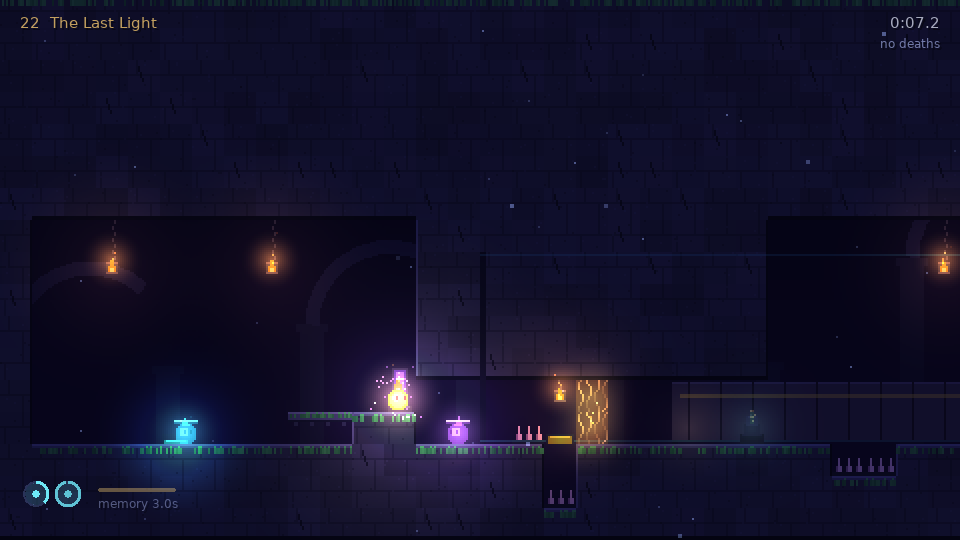
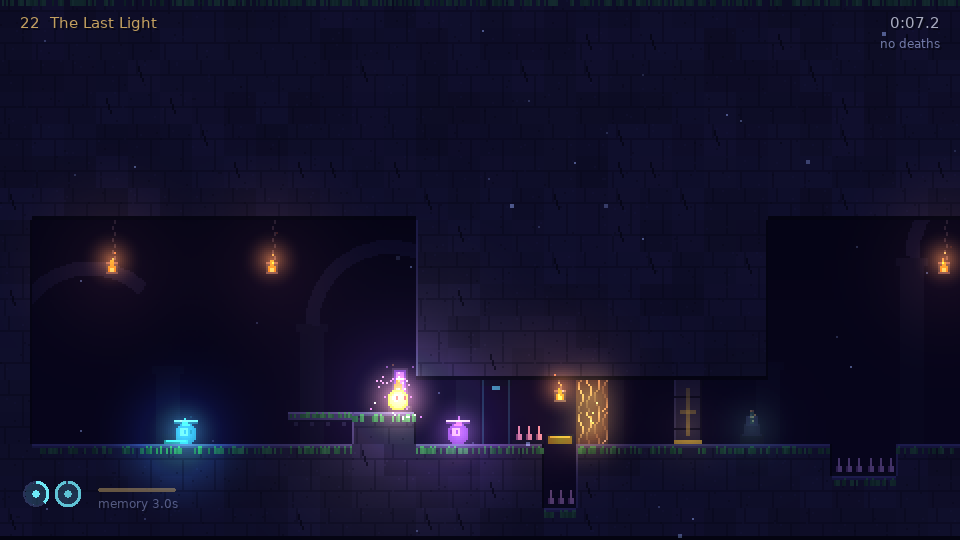
Reshoot the act IV and V blog images at the door fix
The act IV, act V and five-act level select rows in devblog/tools/shots.sh
now render from df9c112, which draws each separate door piece where it is.
Six images changed. The rest of those rows came out byte-identical.

Post 12 drops the door bug section and its image, the captions in posts
10 and 11 no longer point at the bug, and the devblog README no longer
lists door shots as an exception to deterministic screenshots.

diff --git a/devblog/content/posts/12-whats-next.md b/devblog/content/posts/12-whats-next.md
@@ -1,28 +1,20 @@
 ---
 title: "Next: playtests and cleanup"
-description: "Acts IV and V need people to play them, a few weak spots and a door-drawing bug are known, and the code shows where the cleanup should go."
+description: "Acts IV and V need people to play them, a few weak spots are known, and the code shows where the cleanup should go."
 part: 12
 weight: 12
 date: 2026-10-18
-commits: ["37c1380"]
+commits: ["37c1380", "df9c112"]
 cover: "images/11-act-five/select-five-acts.png"
 ---
 
-Echoes now has 22 levels in five acts, waystones in every long level, menus, saved progress and controller support. Five tools rerun its claims: `--selftest` with 369 checks, `--flow` with 37, `--slack`, `--cheese`, and `--bench`. Here's what's left.
+Echoes now has 22 levels in five acts, waystones in every long level, menus, saved progress and controller support. Five tools rerun its claims: `--selftest` with 369 checks, `--flow` with 38, `--slack`, `--cheese`, and `--bench`. Here's what's left.
 
-{{< figure src="images/11-act-five/select-five-acts.png" caption="Level select at `37c1380`. The records are seeded test data." >}}
+{{< figure src="images/11-act-five/select-five-acts.png" caption="Level select at `df9c112`. The records are seeded test data." >}}
 
 ## Put acts IV and V in front of people
 
 Every room in acts IV and V passes its solve, its naives, `--slack` and `--cheese`. None of those tools can say whether a person sees the insight from the waystone, or reads the hint and gets it. The last step in the doc's checklist for a new level is one no tool runs. Play it with a pad, from the title, through every waystone, dying once per room on purpose. The real test is someone playing all ten levels cold while someone else watches where they get stuck.
-
-## Draw each door where it is
-
-Taking the screenshots for [part 10]({{< relref "10-act-four" >}}) and [part 11]({{< relref "11-act-five" >}}) turned up a drawing bug. `drawDoor` in `game/gfx/render.lua` draws one slab per door letter, over the bounding box of every cell with that letter. That worked while each letter was one door. Seven levels now use a letter in two or more places, levels 11, 13 and 18 to 22. Let Go's door A is in six. On those levels the slab spans everything between the pieces and covers the floors under it. A door that stands upright is drawn only in the column of its first piece, so the other pieces don't show at all.
-
-{{< figure src="images/12-next/door-slabs.png" caption="Three Steps Behind at `37c1380`, frame 760. The striped panels with magenta and yellow edges are the slabs for hatches B and C, each drawn from one hatch to its twin far away. The corridors and floors under them are hidden." >}}
-
-Collision reads the cells, not the slab, so the levels play as tested. But a person playtesting them sees doors where there are none and floors that aren't drawn, so the fix comes before the playtests. Each connected group of cells needs its own slab. The overlapping slabs also make this shot vary between runs. In four renders of this frame, one differed from the other three in 7,348 pixels.
 
 ## Close the weak spots the doc names
 
@@ -43,7 +35,7 @@ The plan is one `TILES` entry per tile that also names its character, with `LEGE
 
 ## Split the two largest files
 
-`game/screens/scenes.lua` is now 824 lines and `game/gfx/render.lua` is 812. Both already show where they would split.
+`game/screens/scenes.lua` is now 824 lines and `game/gfx/render.lua` is 844. Both already show where they would split.
 
 `scenes.lua` opens with code every scene shares: the camera that follows the player, the reaction to world events, and the ambient title hall behind the menus. After that come seven scenes, one table each: title, playing, pause, level select, settings, level clear, and ending. One file per scene, with the shared code in its own module, would keep each file to one screen.
 

diff --git a/devblog/content/posts/11-act-five.md b/devblog/content/posts/11-act-five.md
@@ -48,7 +48,7 @@ Three ideas were probed for the empty slot before one was built:
 
 The idea behind Let Go is that sometimes you want a ghost gone. Door A in each room is two things at once. It's a one-tile gate standing on crumble over spikes, and past one more crumble tile, a floor five tiles long over more spikes. While a ghost holds plate a, the gate is open and so is the floor. To cross, you need the gate open as you step into it and the floor shut after. You stand in the doorway, where your own body keeps the gate open, and cast until the third ghost takes the one on a with it. The stone under the doorway cracks, so you can't wait there for the ghost to fade instead.
 
-{{< figure src="images/11-act-five/let-go-doorway.png" caption="Let Go, frame 360. Two casts from inside the doorway, at frames 353 and 356, made a third ghost, and the ghost on plate a went with it. Door A is shut, so the five-tile floor ahead is solid, though this frame doesn't draw it. That's the bug in part 12." >}}
+{{< figure src="images/11-act-five/let-go-doorway.png" caption="Let Go, frame 360. Two casts from inside the doorway, at frames 353 and 356, made a third ghost, and the ghost on plate a went with it. Door A has just shut, so the five-tile floor ahead is solid again. Its pieces are still sliding back into place." >}}
 
 The three rooms follow teach, test and twist. In **Let Go** you cast once on a and twice in the doorway. In **Oldest First** a second plate, b, holds the exit door, and the cast in the doorway takes the oldest ghost. So the cast on a has to come before the one on b, or the kill takes the keeper. In **Borrowed Time** the two casts in the doorway replay a pause on plate c three seconds later. That pause has to last between 0.7 and 2.8 seconds.
 
@@ -66,7 +66,7 @@ The doc ends act V with lessons for whoever builds the next level:
 
 ## 22 levels
 
-{{< figure src="images/11-act-five/select-five-acts.png" caption="Level select at `37c1380`, five acts, with 21 levels cleared and The Last Light up next. Long names like Ferryman's Toll and Three Steps Behind wrap above the time, from `a3c2812`. The records are seeded test data." >}}
+{{< figure src="images/11-act-five/select-five-acts.png" caption="Level select at `df9c112`, five acts, with 21 levels cleared and The Last Light up next. Long names like Ferryman's Toll and Three Steps Behind wrap above the time, from `a3c2812`. The records are seeded test data." >}}
 
 Rerun for this post at `37c1380`:
 

diff --git a/devblog/README.md b/devblog/README.md
@@ -37,7 +37,7 @@ It ends with `diff_pair`, which runs a commit's own `--diff` on two shots that a
 
 The script does not depend on where the game's Lua files live in the current checkout. It exports each commit whole and runs that commit's own code. Up to `1afca9f`, `main.lua` sits in the repository root. From `7ae145b` on it sits in `game/`, and the script runs `<commit>/game` instead. Both layouts are in the shot list: `08-layout` shoots `1afca9f` and `eccb521`.
 
-`--shot` arguments differ by commit. `a72332d` supports `--shot N` and `--shot N F` (level N, or F frames of its scripted solution). From `86d2d95` on, `shot.lua` also accepts `title`, `pause [N]`, `select [cleared]`, `settings`, `clear [N]` and `transition`. Shots are deterministic from `b9d194a` on, with one exception. Where two door slabs overlap (the bug described in post 12), their draw order varies, so `12-next/door-slabs.png` can change between runs. Earlier commits draw random dust, so their shots differ a little between runs, while the player, echoes, and doors land in the same place every time. A full rerun at `eccb521` reproduced the 21 shots from `b9d194a` or later byte for byte. It changed the 20 older shots in `01-pitch`, `03-puzzles`, and `04-interface`, which were restored with `git checkout` instead of committed.
+`--shot` arguments differ by commit. `a72332d` supports `--shot N` and `--shot N F` (level N, or F frames of its scripted solution). From `86d2d95` on, `shot.lua` also accepts `title`, `pause [N]`, `select [cleared]`, `settings`, `clear [N]` and `transition`. Shots are deterministic from `b9d194a` on. Earlier commits draw random dust, so their shots differ a little between runs, while the player, echoes, and doors land in the same place every time. A full rerun at `eccb521` reproduced the 21 shots from `b9d194a` or later byte for byte. It changed the 20 older shots in `01-pitch`, `03-puzzles`, and `04-interface`, which were restored with `git checkout` instead of committed.
 
 After regenerating, look at every changed image before you commit it. A caption describes what a specific frame shows.
 

diff --git a/devblog/content/posts/10-act-four.md b/devblog/content/posts/10-act-four.md
@@ -23,8 +23,6 @@ A respawn rebuilds the level from its map and stands the player on the lit wayst
 {{< figure src="images/10-act-four/relay-after-restart.png" caption="Then <kbd>R</kbd>. The light stands on the first waystone with both echo slots empty, 0.6 s of memory, and the gate shut. The clock went on from 0:11.7." >}}
 {{< /pair >}}
 
-The pink slab that runs through both storeys in the second frame is a drawing bug, not a door. [Part 12]({{< relref "12-whats-next" >}}) covers it.
-
 The respawn is an option of the world constructor, so the game and the tests build a room the same way:
 
 ```lua
